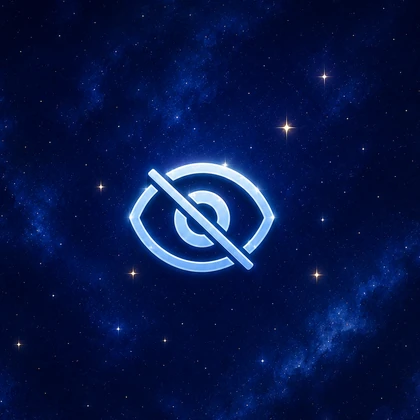
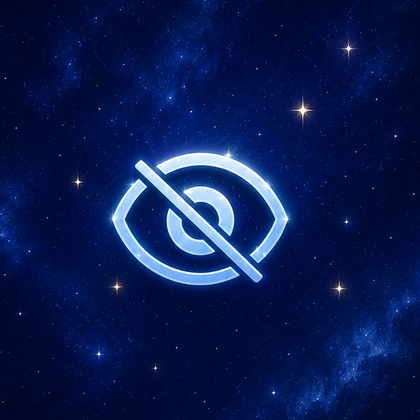
style(onboarding): enlarge the glyphs within the safety tiles
The cell is fixed, so the glyph grows by cropping the source tighter:
the art is re-cut so the glyph fills 80% of each tile instead of 66%.
Trimming the last of the cell padding buys the tile another 5pt. Grid
dimensions are unchanged.

References: colearn#0

diff --git a/grow-with-freya/components/onboarding/onboarding-pages.tsx b/grow-with-freya/components/onboarding/onboarding-pages.tsx
@@ -20,7 +20,7 @@ const CHIP_SIZE = Math.floor((SCREEN_WIDTH - SHELL_H_PADDING * 2 - CHIP_GAP * 2)
 // sized to keep that glyph at roughly 61pt
 // the tile claims nearly the whole cell: padding is trimmed to the minimum that
 // still separates it from the gold dividers
-const SAFETY_ART = 83;
+const SAFETY_ART = 88;
 const SAFETY_CELL_H = 128;
 // gold hairlines over a near-opaque navy fill: the panel overlaps the base of
 // the cloud art, so the cells have to stay legible over it
@@ -632,9 +632,9 @@ const styles = StyleSheet.create({
     minHeight: SAFETY_CELL_H,
     alignItems: 'center',
     justifyContent: 'center',
-    paddingVertical: 5,
+    paddingVertical: 3,
     paddingHorizontal: 8,
-    gap: 3,
+    gap: 2,
   },
   safetyCellDividerRight: {
     borderRightWidth: 1,
